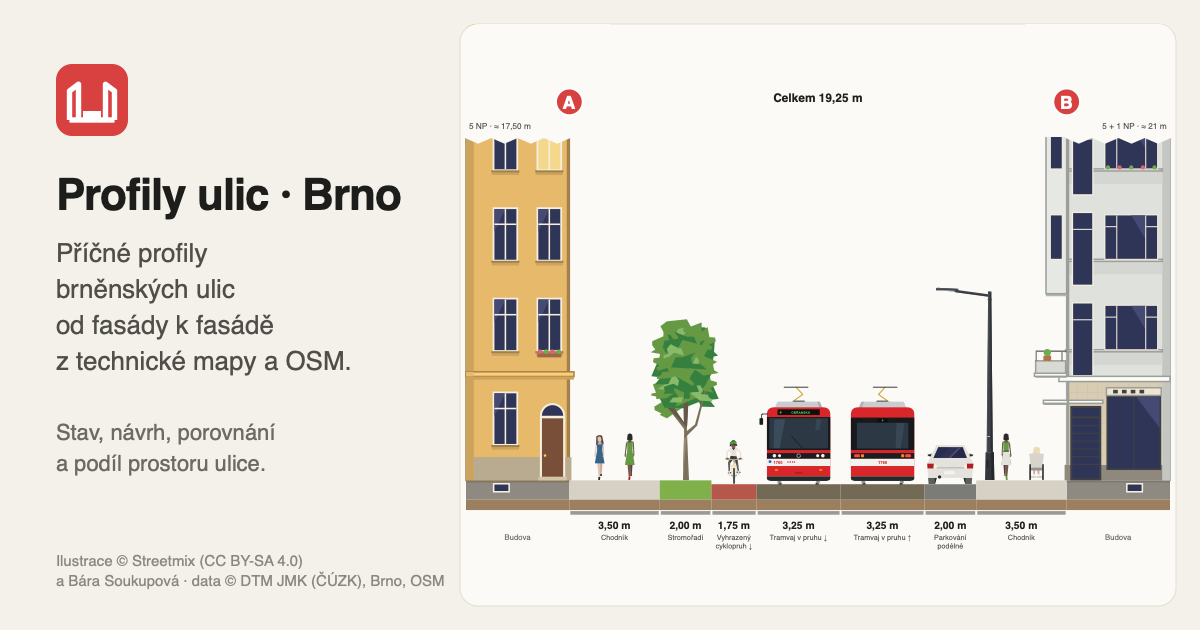
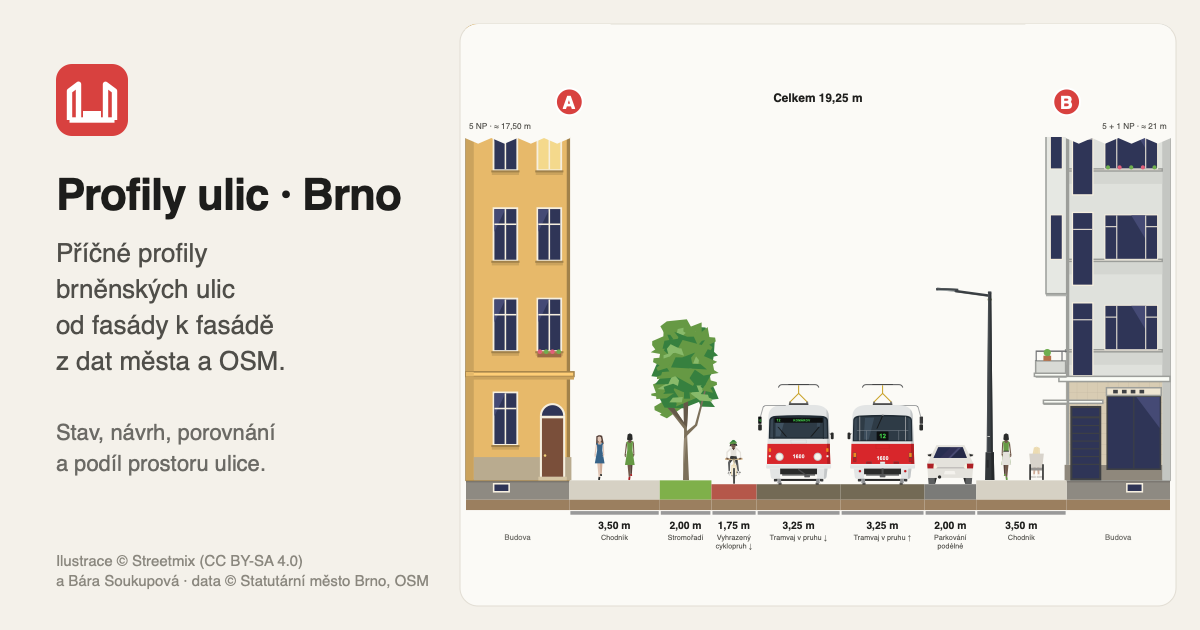
Brno tram: Tatra T3 in DPMB colours (light grey top and apron, red band, green LED board; Bára: the nicest), 45T and 13T kept; Brno preview image redrawn with it

Changed region(s): [[0.6167, 0.6032, 0.7708, 0.7841], [0.0617, 0.5429, 0.2775, 0.6032], [0.185, 0.9048, 0.37, 0.9349]]

diff --git a/pilot/public/profile.js b/pilot/public/profile.js
@@ -28,11 +28,11 @@ const PRAHA = {
   "transit-shelter-01-left": "transit-shelter-left", "transit-shelter-01-right": "transit-shelter-right",
   "transit-shelter-tram-left": "transit-shelter-tram-left", "transit-shelter-tram-right": "transit-shelter-tram-right",
 };
-// Brno illustrations (brno/): the DPMB tram Škoda 45T (13T drawn too) and bus, and furniture after the
+// Brno illustrations (brno/): the tram Tatra T3 in DPMB colours (Bára: the nicest; 45T and 13T drawn too) and bus, and furniture after the
 // rules of Brno's city architect (KAM, Principy tvorby veřejných prostranství, kap. 9): anthracite steel,
 // wooden slats, a slim glass stop shelter, a stainless bike rack. Houses are drawn as in Prague.
 const BRNO = {
-  "streetcar-inbound": "45t-inbound", "streetcar-outbound": "45t-outbound", "bus-inbound": "bus-inbound", "bus-outbound": "bus-outbound",
+  "streetcar-inbound": "t3-inbound", "streetcar-outbound": "t3-outbound", "bus-inbound": "bus-inbound", "bus-outbound": "bus-outbound",
   "lamp-modern-left": "lamp-left", "lamp-modern-right": "lamp-right", "bench-center": "bench-center",
   "bike-rack-perpendicular-left": "bike-rack", "bollard": "bollard",
   "transit-shelter-01-left": "transit-shelter-left", "transit-shelter-01-right": "transit-shelter-right",

diff --git a/pilot/public/city.js b/pilot/public/city.js
@@ -49,7 +49,7 @@ const CITIES = {
     art: "brno",
     artLabel: "Brněnské ilustrace",
     artTitle: "Kreslit brněnskými ilustracemi (vypnuto: ilustrace Streetmixu)",
-    emptyImg: "brno/45t-inbound.svg",
+    emptyImg: "brno/t3-inbound.svg",
     credit: "data © Statutární město Brno (technická mapa a MTVU; budovy CC BY 4.0), parkování © parkovanivbrne.cz · © přispěvatelé OpenStreetMap",
     storeSuffix: "-brno",
     // Changes to the profile tried in Brno first (derive.js); Prague keeps its behaviour until they are

diff --git a/LICENCE-A-ZDROJE.md b/LICENCE-A-ZDROJE.md
@@ -34,7 +34,7 @@ Obrázky profilů, které aplikace vytváří, obsahují ilustrace Streetmixu. P
 | **Brno:** úseky placeného stání, zásobování a obrátková stání z mapy parkovanivbrne.cz (soubor `mapa/js/data/…/mapdata.o.js`, `tools/build_parkovani_brno.mjs`) | parkování v řezu | Aktuální data Brněnských komunikací; export na data.brno.cz (CC BY-SA) je z 2/2024 a chybí v něm celé nové oblasti. Licence u mapy uvedená není („Copyright © Parkovanivbrne.cz“). Stahuje se jednou při nasazení a na webu se vystavují odvozené dlaždice. Rozhodla Bára (9. 11. 2026). | ✓ / ověřit u BKOM |
 | **Brno:** Průzkum budov v Brně (KAM, gis.brno.cz) | počet podlaží, podlaží ve střeše, typ střechy, využití přízemí | **CC BY**, © Statutární město Brno (KAM) | ✓ |
 | **Brno:** Ortofoto 2025 (gis.brno.cz, dlaždice) | podkladová mapa | © Statutární město Brno; v katalogu data.brno.cz je ortofoto pod CC BY | ✓ |
-| Brněnské ilustrace (`pilot/public/brno/`) | tramvaje Škoda 45T a 13T, autobus DPMB; lampa, lavička, stojan, sloupek a přístřešek podle zásad KAM Brno (Principy tvorby veřejných prostranství, kap. 9) | Vlastní ruční SVG podle veřejných fotek (Wikimedia Commons); licence jako kód (MIT). Bez log a ochranných známek. | ✓ |
+| Brněnské ilustrace (`pilot/public/brno/`) | tramvaj Tatra T3 v nátěru DPMB (a Škoda 45T a 13T), autobus DPMB; lampa, lavička, stojan, sloupek a přístřešek podle zásad KAM Brno (Principy tvorby veřejných prostranství, kap. 9) | Vlastní ruční SVG podle veřejných fotek (Wikimedia Commons); licence jako kód (MIT). Bez log a ochranných známek. | ✓ |
 | Leaflet (unpkg) | mapová knihovna | BSD-2-Clause | ✓ |
 | ČSN 73 6056, Manuál veřejných prostranství IPR | rozměry (5,0 / 4,5 m stání, 6,5 / 7 m tramvajový pás) | Používáme jen čísla, a ta jsou fakta. Texty ani PDF se nešíří. | ✓ |
 

diff --git a/CLAUDE.md b/CLAUDE.md
@@ -96,7 +96,7 @@ a exportovat (PNG, SVG, JSON). Lehká samostatná aplikace s ilustracemi Streetm
 - Úpravy výpočtu jen pro Brno přes `city.fix` (Bára: do Prahy zatím nezasahovat).
 - Záložní postup z veřejné DTM kraje (`tools/fetch_dtm_brno.sh`, `tools/build_dtm_brno.py`) si Bára
   přeje schovat pro města bez vlastní služby (DTM kraje má u velkých silnic chybějící obruby).
-- Ilustrace (`pilot/public/brno/`): tramvaj Škoda 45T (výchozí; 13T nakreslená taky), autobus DPMB, mobiliář podle
+- Ilustrace (`pilot/public/brno/`): tramvaj Tatra T3 v nátěru DPMB (Bára: je hezčí; 45T a 13T nakreslené taky), autobus DPMB, mobiliář podle
   zásad KAM Brno. Bára: u 13T i 45T není kolem čelního okna svislá červená, jen vodorovný červený pás pod oknem.
 - Test 100 řezů: `evaluation/brno/ZPRAVA.md`, skripty `evaluation/run_brno.mjs`, `render_brno.mjs`.
 - Otevřené: licence služeb města (MTVU, UMPS), úseky placeného stání jsou z 2/2024.
